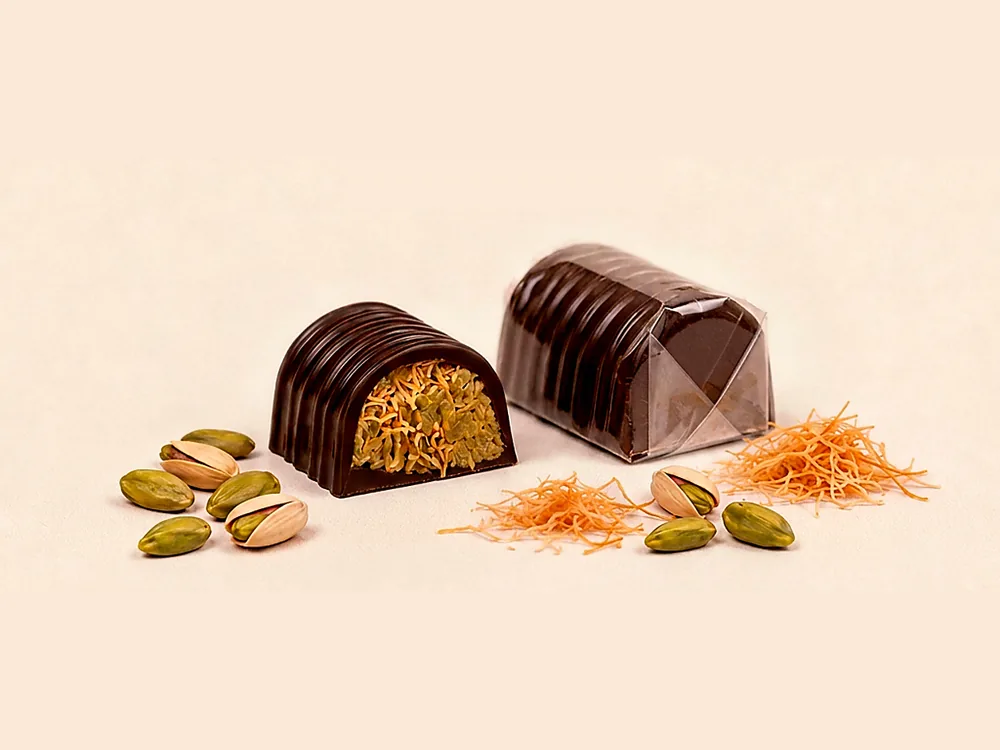
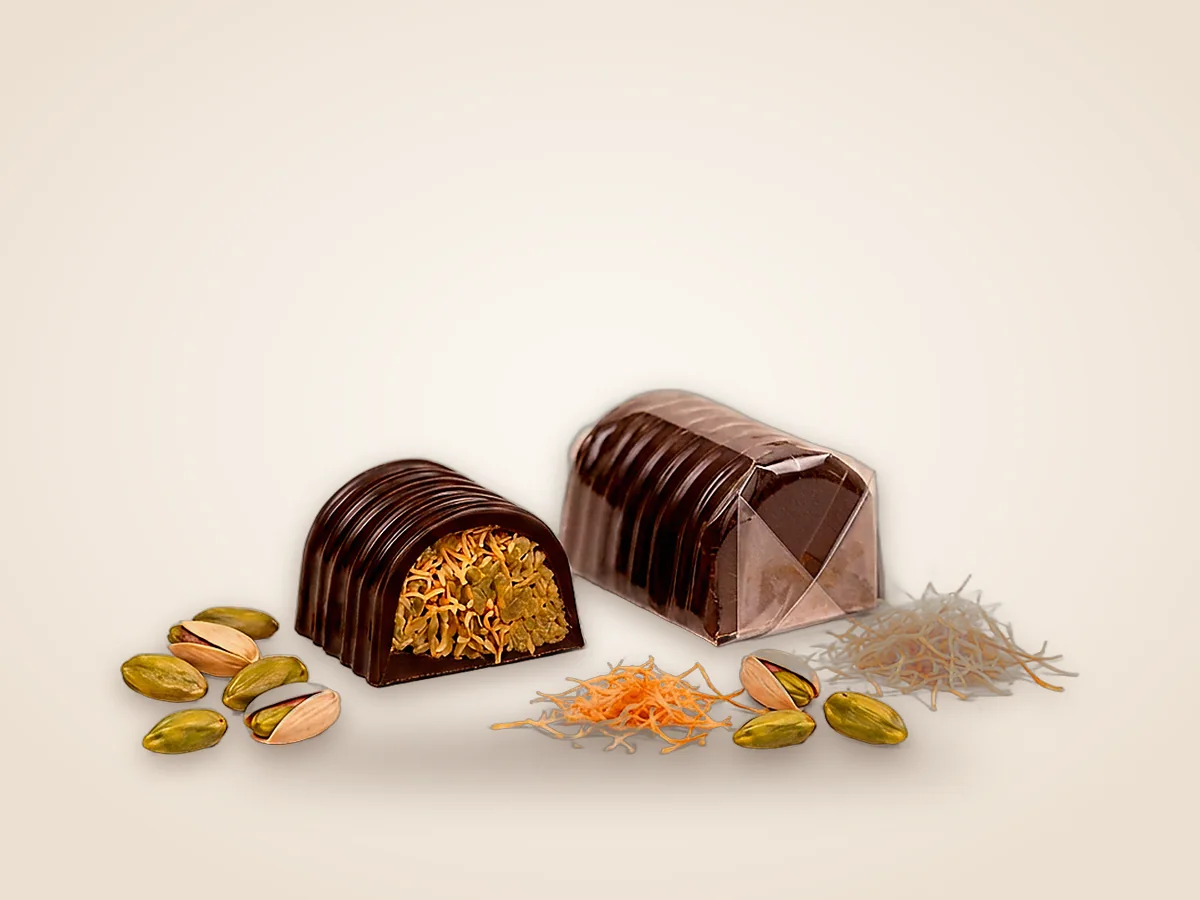
Add pralines category with 19 real praline products
Move 19 flavours out of the names-only flavours menu into their own
"pralines" category (برالين العربية), each with a real photo. The
category filter is data-driven from CATEGORIES, so it picks up the
new tab automatically. Re-save the existing healthy/Potchini photos
from the updated export.

diff --git a/js/products.js b/js/products.js
@@ -10,6 +10,7 @@ const PRICE_PER_KG = 140; // ₪
 const CATEGORIES = [
   { id: "all",      ar: "الكل",                he: "הכול" },
   { id: "healthy",  ar: "شوكلاطة صحية",        he: "שוקולד בריא" },
+  { id: "pralines", ar: "برالين العربية",      he: "הפרלינים שלנו" },
   { id: "potchini", ar: "تشكيلة بوتشيني",      he: "מבחר פוצ'יני" },
 ];
 
@@ -47,6 +48,30 @@ const PRODUCTS = [
     "شوكلاطة محشوة بالبندق الكامل.", "שוקולד במילוי אגוזי לוז שלמים.",
     { featured: true }),
 
+  /* ---------- برالين العربية (own pralines, from Instagram stories) ---------- */
+  ...[
+    ["milk-berry", "شوكلاطة حليب مع توت", "שוקולד חלב עם פירות יער", "كوب شوكلاطة حليب بحشوة كريمة التوت.", "כוס שוקולד חלב במילוי קרם פירות יער."],
+    ["crunchy-oat", "أفينا مقرمش", "שיבולת שועל פריכה", "شوكلاطة بحشوة الشوفان المقرمش.", "שוקולד במילוי שיבולת שועל פריכה."],
+    ["caramel-donuts", "دونات كراميل", "דונאטס קרמל", "طبقات شوكلاطة وكراميل مع كرة شوكلاطة.", "שכבות שוקולד וקרמל עם כדור שוקולד."],
+    ["cornflakes-round", "مدوّرة كورنفلكس", "עגול קורנפלקס", "شوكلاطة حليب بحشوة الكورنفلكس المقرمش.", "שוקולד חלב במילוי קורנפלקס פריך."],
+    ["salted-caramel", "كراميل مملح", "קרמל מלוח", "كوب شوكلاطة بكريمة الكراميل المملح وحبة لوز.", "כוס שוקולד עם קרם קרמל מלוח ושקד."],
+    ["lulu-round", "مدوّرة لولو", "עגול פנינים", "شوكلاطة حليب مع حبات مقرمشة وقلب كراميل.", "שוקולד חלב עם כדורים פריכים ולב קרמל."],
+    ["red-velvet", "ريد فلفيت", "רד ולווט", "كيك ريد فلفيت مغطى بالشوكلاطة البيضاء.", "עוגת רד ולווט בציפוי שוקולד לבן."],
+    ["biscuit-fingers", "بسكوت أصابع", "אצבעות ביסקוויט", "أصابع بسكوت محشوة ومغطاة بالشوكلاطة.", "אצבעות ביסקוויט ממולאות בציפוי שוקולד."],
+    ["tiramisu", "تيرميسو", "טירמיסו", "طبقات كريمة وكيك بطعم التيراميسو.", "שכבות קרם ועוגה בטעם טירמיסו."],
+    ["madlouka", "مدلوقة", "מדלוקה", "حلوى المدلوقة مع الفستق مغطاة بالشوكلاطة.", "מדלוקה עם פיסטוק בציפוי שוקולד."],
+    ["souffle", "سوفلي", "סופלה", "كيك سوفلي مغطى بالشوكلاطة وحبيبات الشوكلاطة.", "עוגת סופלה בציפוי שוקולד וסוכריות שוקולד."],
+    ["choc-fruits", "شوكلاطة مع فواكه", "שוקולד עם פירות ואגוזים", "شوكلاطة مع مكسرات وفواكه مجففة.", "שוקולד עם אגוזים ופירות יבשים."],
+    ["lotus-wafer", "لوتس مع وفير", "לוטוס עם ופל", "وفير مغطى بالشوكلاطة وفتات اللوتس.", "ופל בציפוי שוקולד ופירורי לוטוס."],
+    ["pecan-milk", "بيكان مع شوكلاطة بالحليب", "פקאן עם שוקולד חלב", "كوب شوكلاطة حليب بكريمة وحبة بيكان.", "כוס שוקולד חלב עם קרם ואגוז פקאן."],
+    ["aroma-pistachio", "أروما مع حلبي", "ארומה עם פיסטוק", "شوكلاطة بحشوة كريمة الفستق الحلبي.", "שוקולד במילוי קרם פיסטוק."],
+    ["kinder-style", "شوكلاطة كندر", "שוקולד קינדר", "شوكلاطة حليب محشوة بالبندق والكريمة.", "שוקולד חלב במילוי אגוז לוז וקרם."],
+    ["pistachio-cup", "فستق حلبي", "פיסטוק", "كوب شوكلاطة مع كريمة الفستق الحلبي والتوت.", "כוס שוקולד עם קרם פיסטוק ופירות יער."],
+    ["milk-rose", "شوكلاطة حليب مع وردة", "שוקולד חלב עם ורד", "شوكلاطة حليب بشكل وردة.", "שוקולד חלב בצורת ורד."],
+    ["dubai-sesame", "سمسمية مع شوكلاطة دبي", "סומסומייה עם שוקולד דובאי", "سمسمية مع شوكلاطة دبي والفستق.", "סומסומייה עם שוקולד דובאי ופיסטוק."],
+  ].map(([id, ar, he, dar, dhe]) =>
+    P("praline-" + id, "pralines", "praline-" + id, ar, he, dar, dhe)),
+
   /* ---------- Potchini (resold) ---------- */
   ...[
     ["muhallabia-nuts", "مهلبية بالمكسرات", "מהלביה עם אגוזים", "حشوة مهلبية مع المكسرات.", "מילוי מהלביה עם אגוזים."],
@@ -76,22 +101,16 @@ const PRODUCTS = [
     P("potchini-" + id, "potchini", "potchini-" + id, ar, he, dar, dhe, { brand: "potchini" })),
 ];
 
-/* ---------- Praline flavours (menu boards) ----------
-   Shown as a "flavours menu" (names only, no individual photos yet).
-   Sold by weight at PRICE_PER_KG. 3 names left out until confirmed:
-   ابنشاين، لوس وفير، بيجلا مملح */
+/* ---------- More praline flavours (menu boards, no photos yet) ----------
+   Shown as a "flavours menu" (names only). Sold by weight at PRICE_PER_KG.
+   When a photo arrives, move the flavour into PRODUCTS (category "pralines").
+   Left out until confirmed: ابنشاين، بيجلا مملح */
 const FLAVOURS = [
-  ["تيرميسو", "טירמיסו"], ["بقلاوة شوكلاطة", "בקלאווה שוקולד"], ["شوكلا كنافة لوتس", "כנאפה לוטוס"],
-  ["بسكوت اصابع", "אצבעות ביסקוויט"], ["شوكلاطة كندر", "שוקולד קינדר"], ["شوكلاطة كب كيك", "שוקולד קאפקייק"],
+  ["بقلاوة شوكلاطة", "בקלאווה שוקולד"], ["شوكلا كنافة لوتس", "כנאפה לוטוס"], ["شوكلاطة كب كيك", "שוקולד קאפקייק"],
   ["شوكلاطة لواكر", "שוקולד ופל"], ["كيندر بوينو مع بسكوت", "קינדר בואנו עם ביסקוויט"], ["شوكلاطة حليب", "שוקולד חלב"],
-  ["أفينا مقرمش", "שיבולת שועל פריכה"], ["شوكلاطة مع فواكة", "שוקולד עם פירות"], ["اروما مع حلبي", "ארומה עם פיסטוק"],
   ["شوكلا كريم بسكوت", "שוקולד קרם ביסקוויט"], ["كاندي بوب", "קנדי פופ"], ["شوكولا تارت فريز", "טארט תות"],
-  ["شوكلاطة مدورة مع حب لولو", "שוקולד עגול עם פניני סוכר"], ["تفطيس روشيه", "רושה"], ["ريد فلفيت", "רד ולווט"],
-  ["شوكولا بسكوت", "שוקולד ביסקוויט"], ["فستق حلبي", "פיסטוק"], ["عش البلبل مع قشطة وعسل", "קן בולבול עם קשטה ודבש"],
-  ["كراميل مملح", "קרמל מלוח"], ["مدلوقة", "מדלוקה"], ["دونات كراميل", "דונאטס קרמל"],
-  ["شوكلاطة بقلاوة مع عسل", "שוקולד בקלאווה עם דבש"], ["سمسميه شوكلاطة دبي", "סומסום שוקולד דובאי"],
-  ["شوكلاطة حليب مع توت", "שוקולד חלב עם פירות יער"], ["دب اللوز", "דובון שקדים"], ["شوكلاطة حليب مع ورد", "שוקולד חלב עם ורדים"],
-  ["براوني اللوز", "בראוניז שקדים"], ["وافيل بلجي", "וופל בלגי"], ["أونصات", "אונסאת"],
-  ["جليدا", "ג'לידה"], ["فراشة اللوز", "פרפר שקדים"], ["وافر", "ופלים"],
-  ["وافل", "וופל"], ["سوفلي", "סופלה"], ["كورنفلكس", "קורנפלקס"],
+  ["تفطيس روشيه", "רושה"], ["شوكولا بسكوت", "שוקולד ביסקוויט"], ["عش البلبل مع قشطة وعسل", "קן בולבול עם קשטה ודבש"],
+  ["شوكلاطة بقلاوة مع عسل", "שוקולד בקלאווה עם דבש"], ["دب اللوز", "דובון שקדים"], ["براوني اللوز", "בראוניז שקדים"],
+  ["وافيل بلجي", "וופל בלגי"], ["أونصات", "אונסאת"], ["جليدا", "ג'לידה"],
+  ["فراشة اللوز", "פרפר שקדים"], ["وافر", "ופלים"], ["وافل", "וופל"],
 ].map(([ar, he]) => ({ ar, he }));
